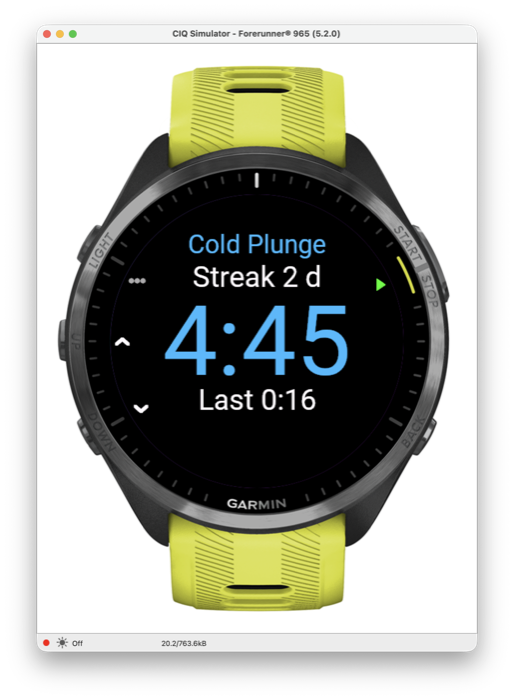
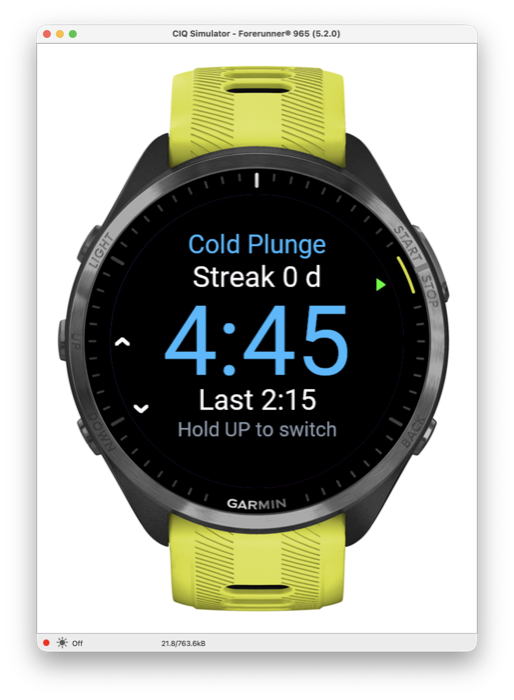
0.2.1: START pauses, large heart rate, target line and total time, hold hint text

diff --git a/README.md b/README.md
@@ -4,14 +4,15 @@
 
 ColdStart is a Garmin Connect IQ watch app that times cold showers and cold plunges and saves each one as a Garmin activity (named "Cold Shower" or "Cold Plunge") (Meditation / Breathing, falling back to Generic). It targets 53 five-button Connect IQ 5+ watches (see `manifest.xml`), developed against the Forerunner 965 simulator. Touch is ignored everywhere, so water on the screen cannot start, stop, save or discard anything.
 
-![Home](docs/screenshots/fr965-home.png) ![Shower](docs/screenshots/fr965-shower.png) ![Summary](docs/screenshots/fr965-summary.png)
+![Home](docs/screenshots/fr965-home.png) ![Session](docs/screenshots/fr965-shower.png) ![After target](docs/screenshots/fr965-shower-after-target.png) ![Paused](docs/screenshots/fr965-paused.png) ![Summary](docs/screenshots/fr965-summary.png)
 
 **Store text:** Time your cold showers and cold plunges. Set a target, count down (then overtime), feel a pulse every 30 s and a long buzz at the target, and save each session as a Garmin activity with heart rate. Keeps a day streak and your last time. Made for wet hands: button-only, touch is ignored, so water and wet fingers can not trigger anything.
 
 ## Usage
 
-- **Home:** the session type (Cold Shower or Cold Plunge) at the top, target time in the middle (default 2:00), the current streak above, the last saved shower below. UP/DOWN change the target in 15 s steps (0:15 to 15:00, remembered), START begins, BACK exits. **Hold UP** switches between Cold Shower and Cold Plunge (remembered; the three-dot marker near UP shows it). The type is the name of the Garmin activity and is fixed once a session starts; streak and "Last" count both types together.
-- **Shower:** the time counts down to the target, then counts overtime as `+m:ss` in orange. A ring shows progress, with the current heart rate below. The watch pulses every 30 s (300 ms), and at the target vibrates for 1 s, then 2 s later vibrates again for 1 s with a tone where the watch has a beeper; the screen turns green and shows "Target!" for 5 s. Garmin's "Do Not Disturb" can suppress app vibrations and tones, so turn it off for showers. START stops; BACK is ignored while a shower runs. The backlight is kept on where supported.
+- **Home:** the session type (Cold Shower or Cold Plunge) at the top, target time in the middle (default 2:00), the current streak above, the last saved shower below. UP/DOWN change the target in 15 s steps (0:15 to 15:00, remembered), START begins, BACK exits. **Hold UP** switches between Cold Shower and Cold Plunge (remembered; "Hold UP to switch" is written under the last time). The type is the name of the Garmin activity and is fixed once a session starts; streak and "Last" count both types together.
+- **Session:** the top line always shows the target. Before the target the big number counts down; from the target on it shows the total time in orange (for 5 s after the target it is green). A ring shows progress and the heart rate is the large number with a heart below. The watch pulses every 30 s (300 ms), and at the target vibrates for 1 s, then 2 s later vibrates again for 1 s with a tone where the watch has a beeper. Garmin's "Do Not Disturb" can suppress app vibrations and tones, so turn it off for sessions. The backlight is kept on where supported.
+- **Pause:** START during a session pauses it (short vibration): the time freezes, the Garmin activity timer stops and nothing vibrates. On the Paused screen START resumes (time continues from where it was; paused time is not counted, and a target already reached does not fire again) and BACK finishes to the summary. BACK is ignored while running.
 - **Summary:** duration, target hit or missed, average and maximum heart rate, and heart rate as three columns (MIN, AVG, MAX in bpm) below. START saves the activity, BACK asks to discard (hold UP does nothing here). Showers shorter than 10 s default to discard. If the app is stopped mid-shower the session is saved as it is (discarded when under 10 s).
 
 The activity is saved with duration and heart rate (Garmin Connect shows min, max and average HR natively) plus one custom session field, `target_s`. The Summary shows MIN, AVG and MAX heart rate in three labelled columns and hides them when no heart rate was measured.

diff --git a/docs/DEVICE_TESTS.md b/docs/DEVICE_TESTS.md
@@ -23,6 +23,14 @@ Simulator checks are not hardware acceptance; marks are upgraded only from recor
 - [ ] **PENDING** (0.1.3) Target alert: 1 s full-strength vibration, repeat 2 s later with a tone on watches with a beeper (tone moved off the first vibration in 0.1.3), green "Target!" screen for 5 s; 30 s pulses (300 ms, full strength) are felt in the shower; also with the target off the 30 s grid (e.g. 2:15). Check with Do Not Disturb on and off (DND can suppress app vibrations).
 - [ ] **PENDING** (0.1.3) Summary heart-rate columns (MIN / AVG / MAX, "HR bpm") are readable and clear of the START/BACK markers on the FR965; simulator screenshots on fr965 and fr255s are in `docs/screenshots/`.
 
+## 0.2.1 (pause, readable HR, target line)
+
+- [x] Simulator (fr965, harness timer driving the app, 2026-10-31): start, pause at 3 s, resume, pause at 7 s active, finish: the summary showed 0:07 after 13 s of wall time (events logged P3 R3 P7 F7), so paused time is excluded. Screenshots of Shower before and after the target and of Paused on fr965 and fr255s are in `docs/screenshots/`.
+- [ ] **NOT DONE** Clicking the drawn buttons through pause, resume, pause and BACK on the fr965 simulator could not be completed: other windows covered the simulator and the injected clicks did not reach it.
+- [ ] **PENDING** (FR965) Heart rate is legible on a wet watch in the shower (large white number, heart icon).
+- [ ] **PENDING** (FR965) START pauses, the Garmin activity timer is paused (check the saved activity's elapsed time and Connect), START resumes with the time continuing, BACK on Paused goes to the summary; a target already reached does not buzz again after a resume; pause and resume give one short vibration; no vibrations while paused.
+- [ ] **PENDING** (FR965) The total time after the target and the "Target m:ss" line are readable; the "Hold UP to switch" text on Home is clear and the LIGHT button no longer looks like it has a function.
+
 ## Cold plunge (0.2.0)
 
 - [x] Simulator (fr965, 2026-10-31, injected mouse events on the drawn UP button): a short UP changes the target exactly once; a 1.5 s hold toggles Cold Shower / Cold Plunge without changing the target; the type is remembered after relaunch; hold UP during a session and on the summary does nothing. The simulator reports a hold as a `KEY_UP` action at release after the press time, not as `KEY_MENU`, so the timing path is what was exercised.

diff --git a/CLAUDE.md b/CLAUDE.md
@@ -40,6 +40,7 @@ Two session types (`ColdLogic.TYPE_SHOWER` / `TYPE_PLUNGE`, storage key `type`, 
 
 - Timer callbacks passed to `method(:x)` must be public.
 - No storage writes and no backlight call in a vibrating tick; `onTick` stays light (HR reads only). Vibrations are single-profile (`VibeProfile(100, 1000)` at the target and again 2 s later via `_alertRepeatAt` from a later tick, `VibeProfile(100, 300)` for the 30 s pulses) plus `Attention.playTone` with the repeat (not the first target vibration, so a tone cannot cut it short), all through `ColdLogic.alertStep` (pure, unit-tested). Do not use multi-profile patterns: the FR965 did not vibrate for them (0.1.2).
+- Pause: START in a running session pauses (`pauseShower`: stops the 1 s timer, `ShowerRecorder.stop()` keeps the session open, `_alertRepeatAt` cleared, state `STATE_PAUSED`); on `PausedView` START resumes (`resumeShower`: `session.start()`, new `_runStartMs`) and BACK finishes (`finishShower` -> Summary). Active time = `_activeMs` (finished runs) + the current run, via `ColdLogic.activeMs`/`activeSec` from `System.getTimer()` deltas; `elapsed`, the alerts, pulses and the crash checkpoint all use active time, so paused time never counts and a reached target never fires again. `onStop` while paused saves/discards like a finished session. A short `VibeProfile(100, 200)` confirms pause/resume (sent from the key handler, never in a tick).
 - Elapsed time is measured with `System.getTimer()` deltas (`ColdLogic.elapsedSec`), never `Time.now()` differences, so a clock sync cannot make it jump; `Time.now()` is only used for the start timestamp and day index.
 - Crash recovery: `startShower` writes the storage key `open` = `[startedAtUtc, dayIndex, target, elapsedSec]`; `onTick` refreshes it when `elapsed % 30 == 15` (never in a vibrating second); save/discard clear it. `onStart` credits a leftover `open` (streak day + last duration) via `ColdLogic.openCredit` if it was at least 10 s and shows "Recovered m:ss". The FIT activity is not recoverable.
 - `monkeyc -l 3` (strict typecheck) must build clean for fr965 and fr255s.

diff --git a/CHANGELOG.md b/CHANGELOG.md
@@ -1,5 +1,11 @@
 # Changelog
 
+## 0.2.1
+- **START pauses instead of ending.** An accidental press no longer ends the session. START pauses (time freezes, the Garmin activity timer stops, no vibrations); on the Paused screen START resumes and BACK finishes to the summary. Paused time is not counted in the duration, and the 30 s pulses and the target alert continue from the active time (an already reached target does not fire again). A short vibration confirms pause and resume.
+- **Readable heart rate:** a large white number with a small heart icon replaces the "HR 71" text ("--" when there is none).
+- **Target always visible:** the top line shows "Target 2:00" before and after the target. After the target the big number is the total time (orange); before it, the countdown.
+- Home: the three-dot marker next to the LIGHT button is gone; "Hold UP to switch" is written on Home instead.
+
 ## 0.2.0
 - **Cold plunges.** ColdStart now has two session types, Cold Shower and Cold Plunge. Hold UP on Home to switch; the choice is remembered, shown at the top of Home, and becomes the name of the Garmin activity. The streak and "Last" count both types together.
 - Wording is neutral for both ("Discard session?", "No sessions yet"). Hold UP does nothing during a session or on the summary, and the summary no longer opens the discard prompt from the menu key (BACK does).
